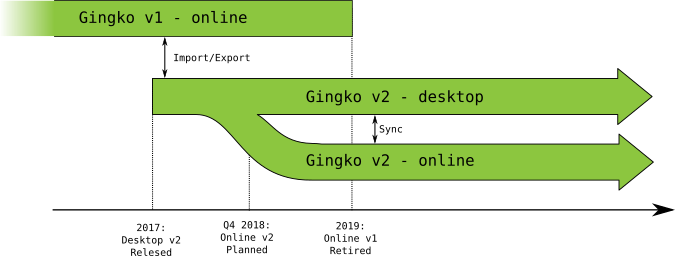
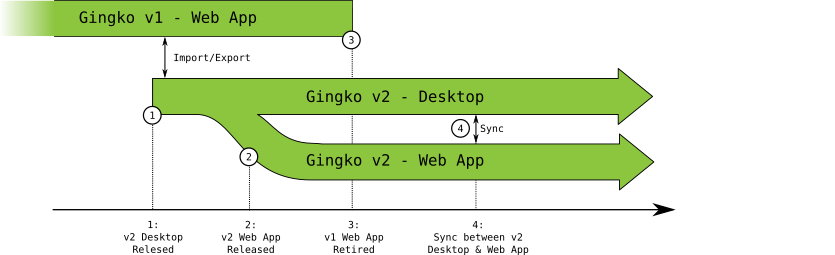
Clarify v2 transition and desktop's beta status.

diff --git a/themes/hugo-gingko/layouts/index.html b/themes/hugo-gingko/layouts/index.html
@@ -134,17 +134,20 @@
       <div class="container">
         <div class="row">
           <div class="col-md-8 mx-auto">
-            <h3>Upgrading Gingko</h3>
-            <p>Gingko 2 is in active development.
-            <br>You can still sign up for the older version, if you prefer to work online.
+            <h3>Gingko 2 Desktop is still in beta.</h3>
+            <p>If you <strong>need to work offline</strong>, and can tolerate <strong>some instability</strong>, feel free to try it. Otherwise, it's recommended you use the <a href="https://gingkoapp.com/signup">Gingko 1 Web App</a> until further notice.
             <br><small>(you can transfer your data across at any time)</small>
             </p>
+            <hr>
+            <br>
+            <h4>Version Comparisons</h4>
             <table class="table table-comparison table-hover table-striped">
               <thead>
                 <tr>
                   <th></th>
-                  <th>Gingko 1</th>
-                  <th>Gingko 2</th>
+                  <th>Gingko&nbsp;1&nbsp;Web&nbsp;App<br>(stable)</th>
+                  <th>Gingko&nbsp;2&nbsp;Desktop<br>(beta)</th>
+                  <th>Gingko&nbsp;2&nbsp;Web&nbsp;App<br>(closed alpha)</th>
                 </tr>
               </thead>
               <tbody>
@@ -152,40 +155,48 @@
                   <td>Work offline</td>
                   <td><span class="compare-x">×</span></td>
                   <td><span class="compare-y">✓</span></td>
+                  <td><span class="compare-x">×</span></td>
                 </tr>
                 <tr>
                   <td>Full version history</td>
                   <td><span class="compare-x">×</span></td>
                   <td><span class="compare-y">✓</span></td>
+                  <td><span class="compare-y">✓</span></td>
                 </tr>
                 <tr>
-                  <td>Online Collaboration,<br>Search within tree,<br>LaTeX support</td>
+                  <td>Online Collaboration,<br>LaTeX support</td>
                   <td><span class="compare-y">✓</span></td>
-                  <td>in development</td>
+                  <td><span class="compare-x">×</span></td>
+                  <td><span class="compare-x">×</span></td>
                 </tr>
                 <tr>
                   <td>Sync across devices</td>
                   <td><span class="compare-y">✓</span></td>
-                  <td>in development</td>
+                  <td>in backlog</td>
+                  <td><span class="compare-y">✓</span></td>
                 </tr>
                   <td>Free Trial</td>
                   <td>100 cards/month</td>
                   <td>30 days of usage</td>
+                  <td>(closed alpha)</td>
                 </tr>
                 <tr>
                   <td>Pay What You Want Pricing</td>
                   <td>$2 &rarr; $21<br>monthly subscription</td>
                   <td>$15 &rarr; $90<br>one-time payment</td>
+                  <td>(closed alpha)</td>
                 </tr>
                 <tr>
                   <td>Ongoing Development</td>
                   <td><span class="compare-x">×</span></td>
-                  <td><span class="compare-y">✓</span></td>
+                  <td><span class="compare-y">✓</span> (slow)</td>
+                  <td><span class="compare-y">✓</span> (active)</td>
                 </tr>
                 <tfoot>
                   <td></td>
                   <td><a href="https://gingkoapp.com/signup" class="btn btn-table btn-l">Signup</a><br>or <a href="https://gingkoapp.com/login" style="color: #1c3969; text-decoration: underline;">login</a></td>
                   <td><a href="#download" class="btn btn-table btn-l js-scroll-trigger">Download</a><br>&nbsp;</td>
+                  <td></td>
                 </tfoot>
               </tbody>
             </table>
